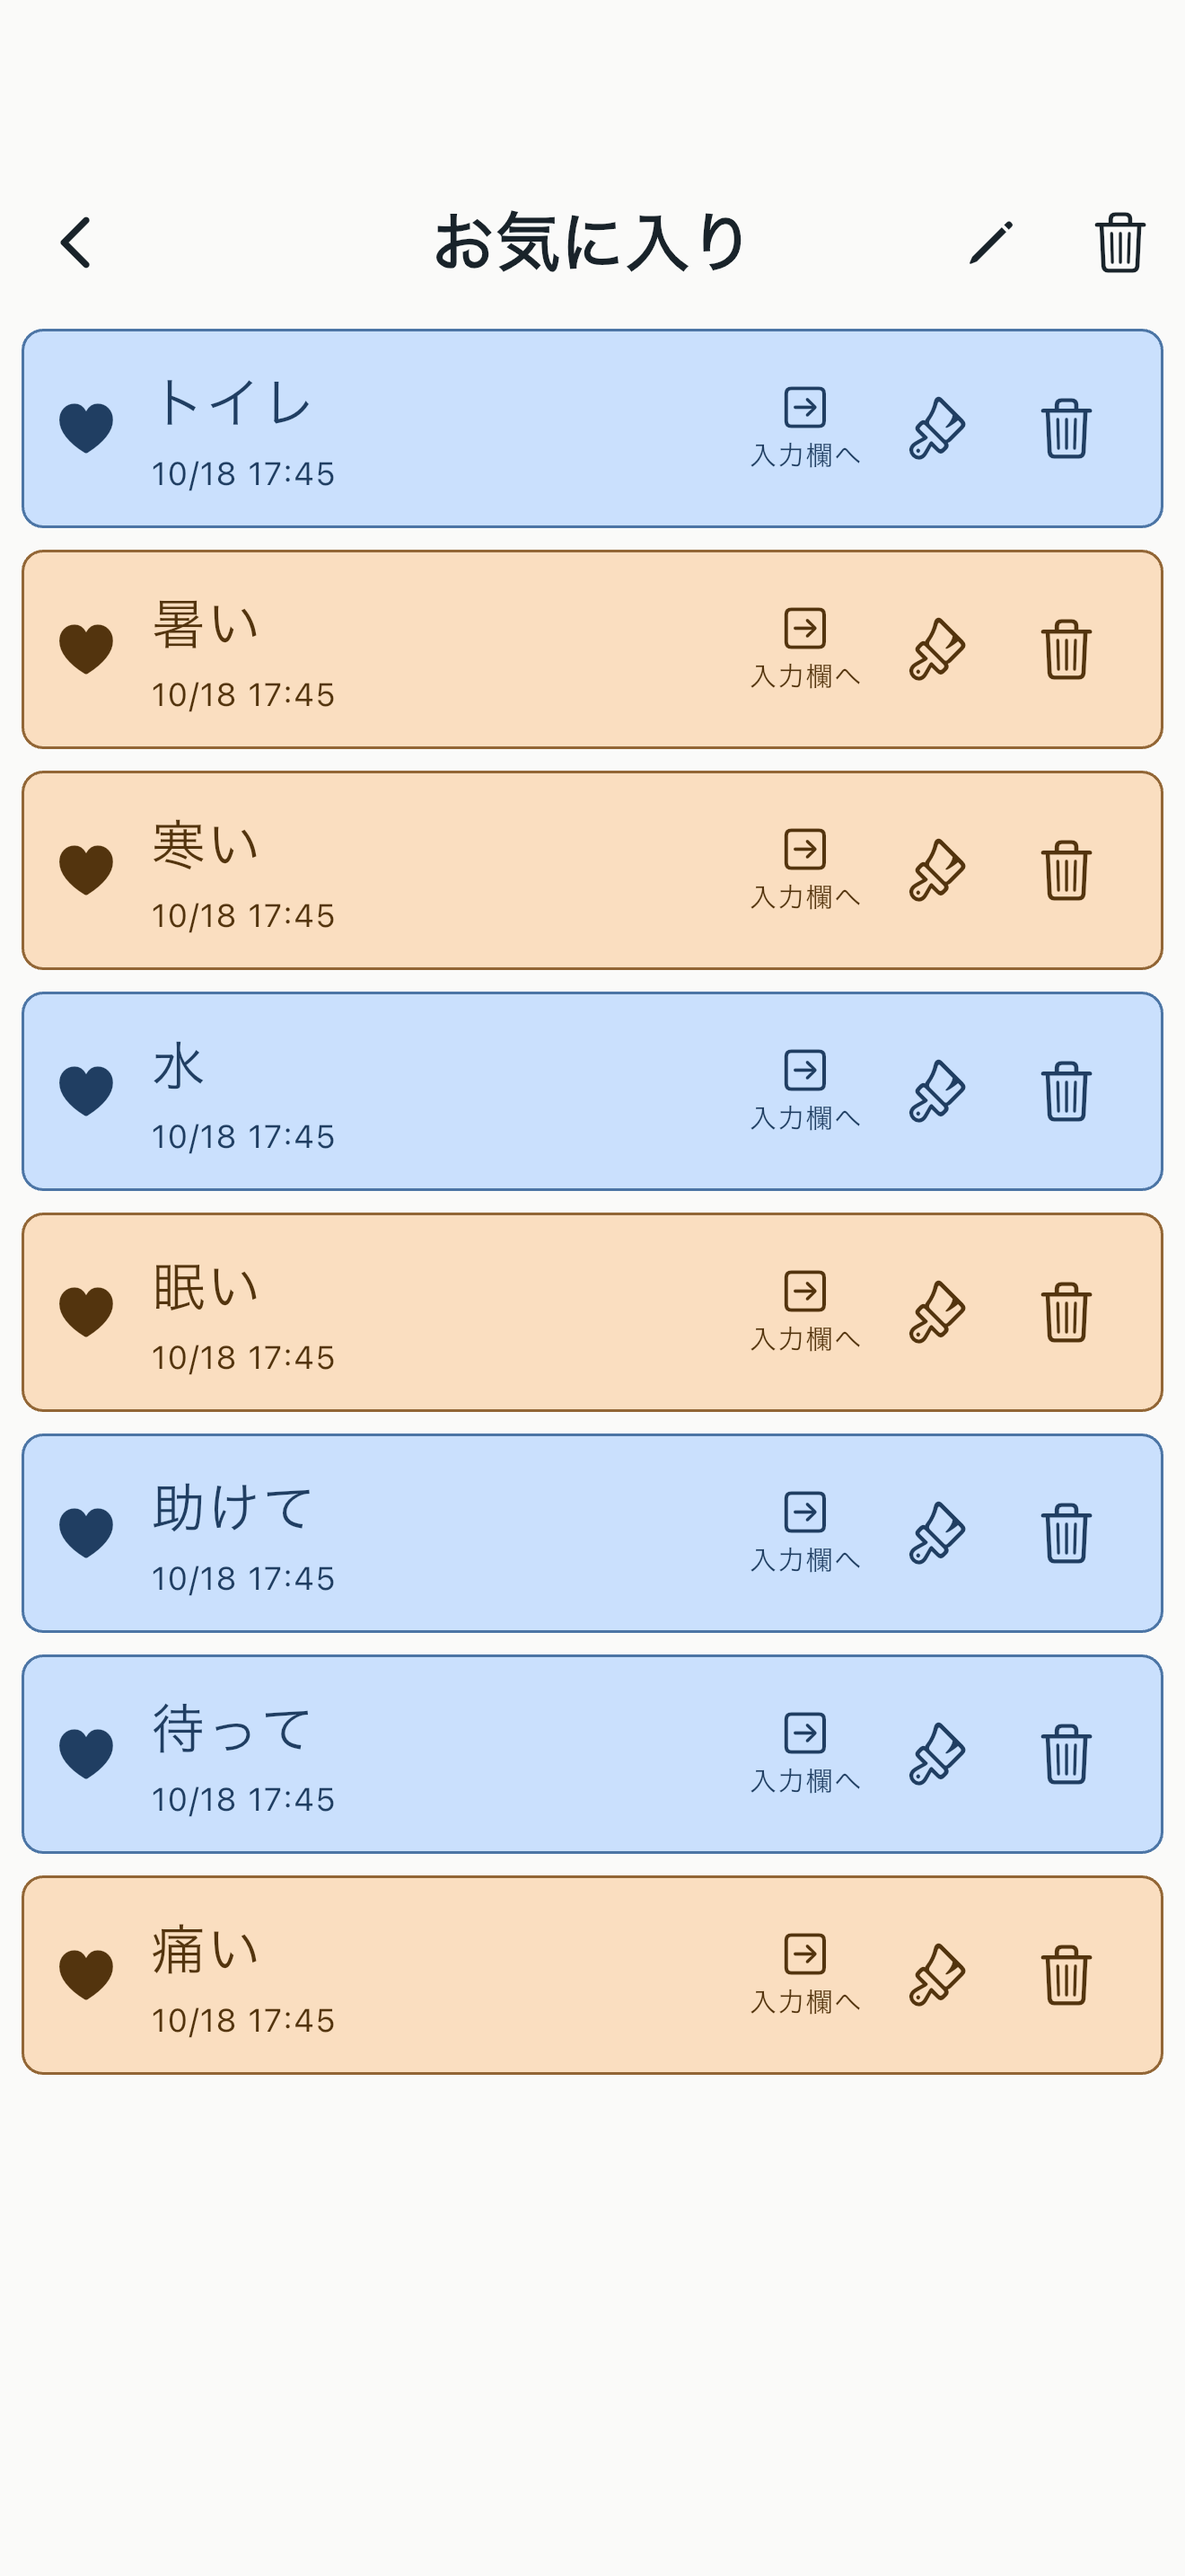
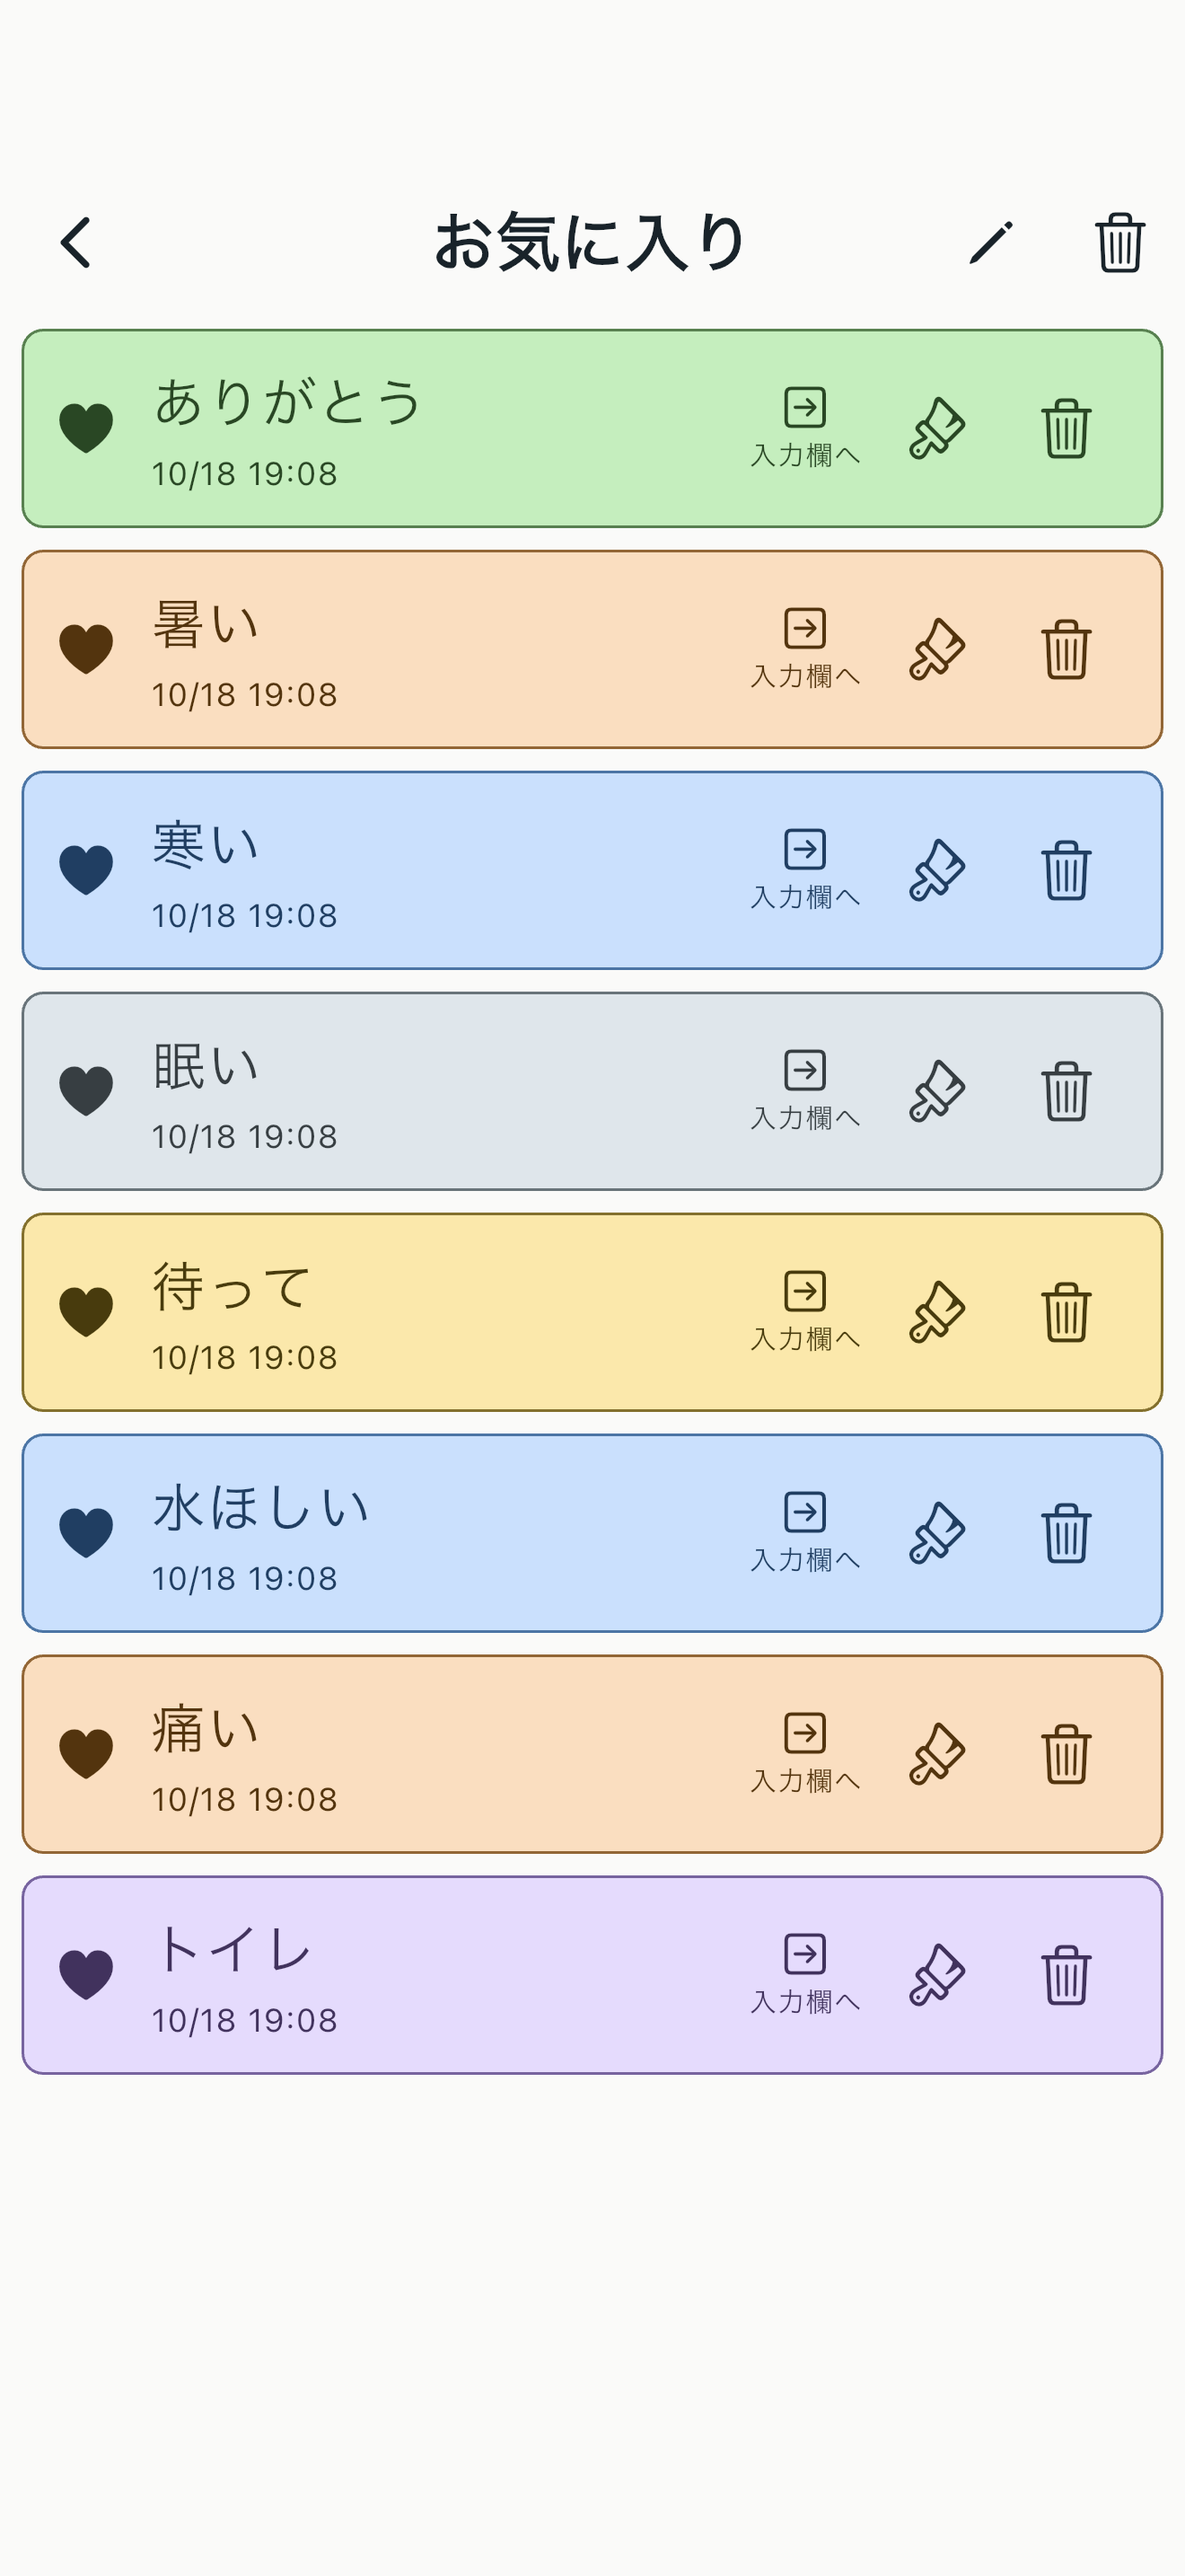
chore: 初期のお気に入りを変えた後の画面で iOS のストア用スクリーンショットを撮り直す

diff --git a/docs/now.md b/docs/now.md
@@ -15,7 +15,7 @@
 - 物理 iPad（iPad 第 8 世代・iPadOS 18.7.8）での QA を 2026-10-18 に終えた（L-25）: `integration_test/device_test/` の自動テストが通り、読み上げの音・音量 0 の帯・消音モードでも聞こえること・VoiceOver（日本語の声・帯・二重読み・記号・「AI」の読み。#278・#279）を人が確かめた。AI 変換の実機での往復は、ローカルの接続先では確かめられないので TestFlight の版で見る
 - TestFlight へ 1.0.0（ビルド 1）を 2026-10-18 に送った（`scripts/ios-testflight.sh`。接続先 `https://kotonoha.mozuq-lab.com`、送る前に本番の backend でキーが通ることを確認）。App Store Connect のアプリ登録・Bundle ID・API キー（Admin）は人が用意した。TestFlight の版を iPad に入れ、本番の backend で AI 変換が往復した（2026-10-18 に人が確認）
 - Apple Developer Program は登録済み。サポート連絡先 `hello@mozuq-lab.com` は届く（いずれも 2026-10-17 に人が確認）
-- プライバシーポリシーは GitHub Pages で配信中。ストア用のスクリーンショットは、iPad で気づいた調整（#287：長音キー・対面表示の下のボタンなど）を入れた後の 2026-10-18 に撮り直した。iPhone 中型（6.3 インチ。2026-10 時点で App Store Connect の必須）・iPhone 大型（6.9 インチ。任意）・iPad 13・Android 電話の 4 種類で、写す文は「いつもありがとう」、`fastlane/screenshots/ja-JP/` にある
+- プライバシーポリシーは GitHub Pages で配信中。ストア用のスクリーンショットは 2026-10-18 に撮り直し、`fastlane/screenshots/ja-JP/` にある。iOS（iPhone 中型 6.3 インチ＝App Store Connect の必須・iPhone 大型 6.9 インチ＝任意・iPad 13）は、初期のお気に入りを変えた後（#290・#291・#292）の画面で、写す文は「いつもありがとう」。Android 電話の画像は初期のお気に入りが古いまま（エミュレータの読み上げが始まらず撮れなかった）で、Google Play に出す前に撮り直す
 - `integration_test/mvp_scenario_test.dart`（7 本）は、#273 の時点で iPad シミュレータ・Android エミュレータ・ヘッドレス Chrome で通過（ADR-007 条件 2）。`integration_test/ai_conversion_e2e_test.dart` は 2026-10-03 に 3 環境で通過（ADR-007 条件 5）
 
 ## 最短経路（上から順に。終わった行は消す）
